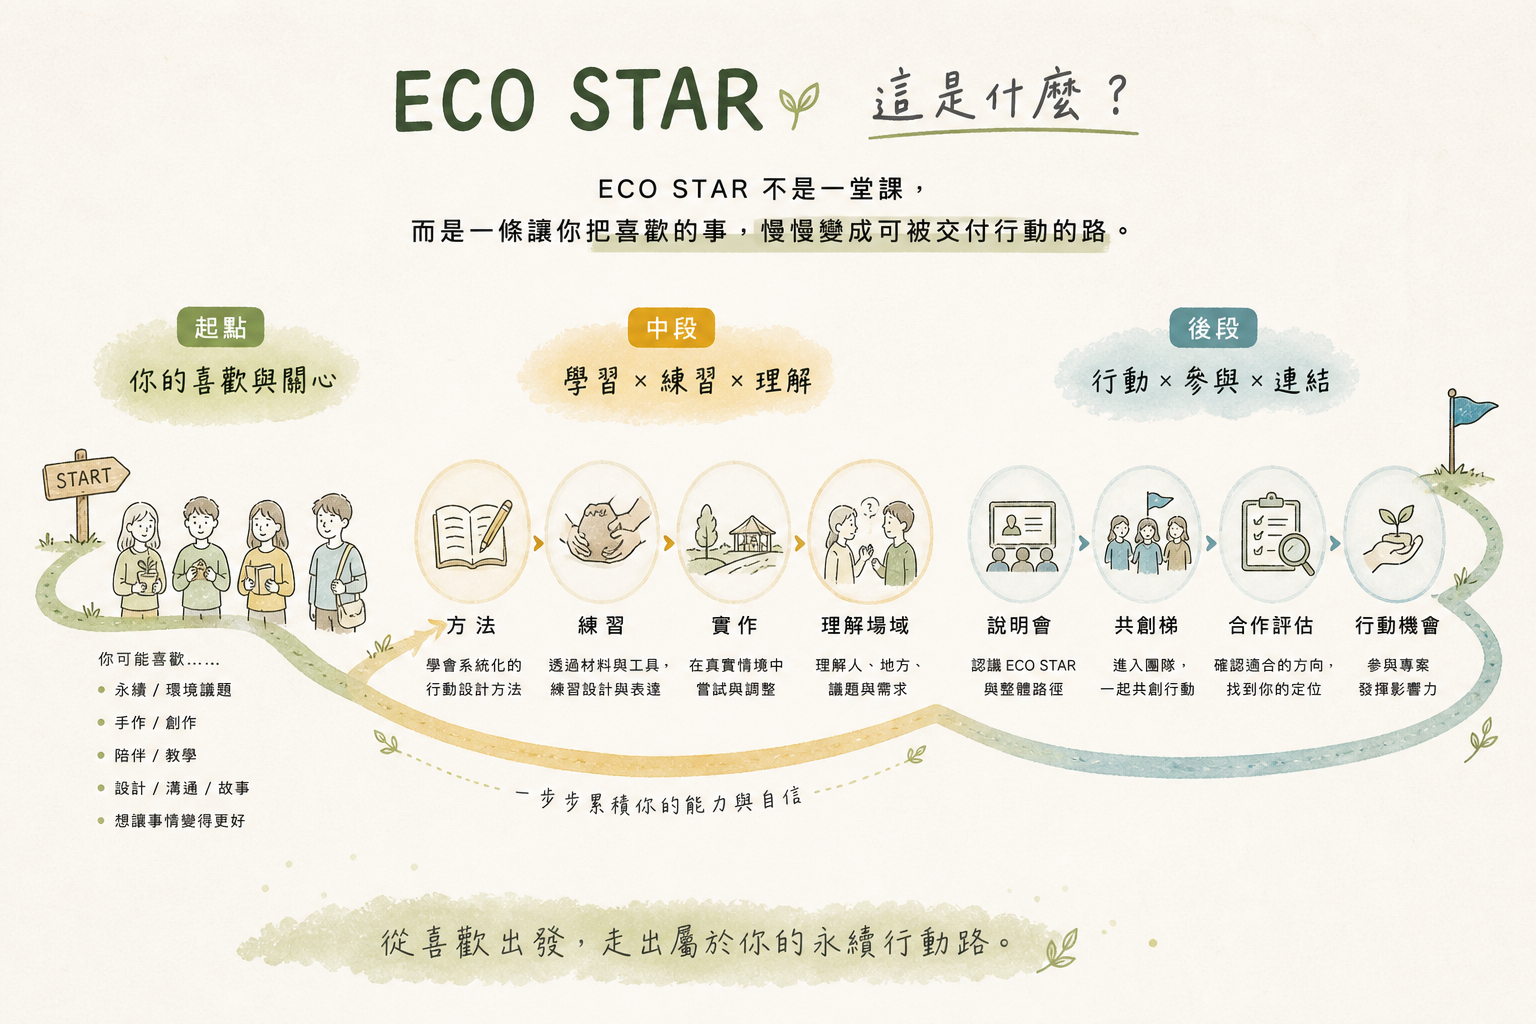
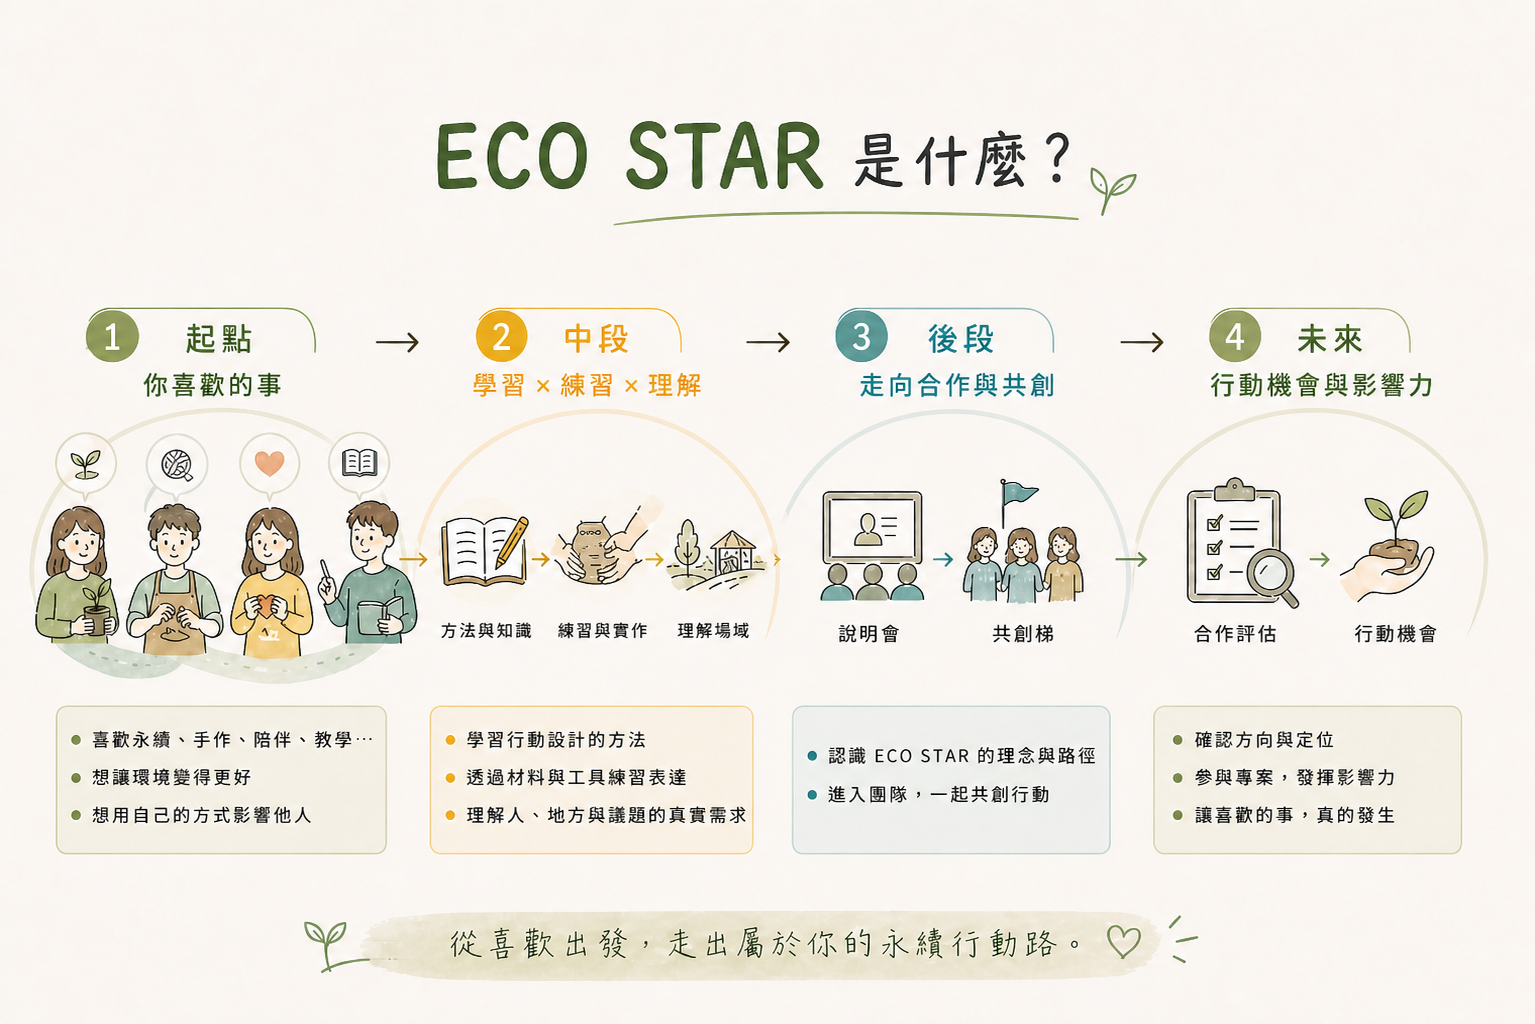
ECO STAR 招生頁 v3.6 what-is refine
What is ECO STAR 區塊更新：
- 標題改「ECO STAR 是什麼？」（kicker 不變）
- lead 改「這不是一堂普通的課程，而是一條從喜歡開始，慢慢走向真實行動的路。」（3 行斷行）
- 加入 4 階段流程圖（assets/eco-star-what-is.png 1535×1024）
  圖內含：起點 → 中段 → 後段 → 未來 4 階段視覺化路徑
- 圖上下不再加長段說明（保持簡潔）

diff --git a/eco-star-designer.html b/eco-star-designer.html
@@ -717,11 +717,37 @@
   <section aria-labelledby="what-title">
     <div class="container">
       <div class="section-kicker-wrap"><span class="section-kicker">What is ECO STAR</span></div>
-      <h2 id="what-title" class="section-title">這不是一堂普通課程</h2>
-      <div class="section-body">
-        <p>它不是一堂單純的課。</p>
-        <p class="accent">而是一條從「喜歡」出發，<br>慢慢走到能帶一場行動的路。</p>
-      </div>
+      <h2 id="what-title" class="section-title">ECO STAR 是什麼？</h2>
+      <p class="what-lead">
+        這不是一堂普通的課程，<br>
+        而是一條從喜歡開始，<br>
+        慢慢走向真實行動的路。
+      </p>
+      <figure class="what-flow">
+        <img src="assets/eco-star-what-is.png" alt="ECO STAR 四階段流程：起點（你喜歡的事）→ 中段（學習×練習×理解）→ 後段（走向合作與共創）→ 未來（行動機會與影響力）" loading="lazy">
+      </figure>
+      <style>
+        .what-lead{
+          max-width:560px;margin:0 auto 32px;
+          text-align:center;
+          font-family:'Noto Serif TC',serif;
+          font-size:17px;line-height:2;color:var(--brown-deep);letter-spacing:.5px;
+        }
+        .what-flow{
+          max-width:1100px;margin:0 auto;
+          border-radius:14px;overflow:hidden;
+          background:var(--card);
+          box-shadow:0 8px 22px -16px rgba(126,90,53,.18);
+        }
+        .what-flow img{
+          display:block;width:100%;height:auto;
+          object-fit:contain;
+        }
+        @media(max-width:720px){
+          .what-lead{font-size:15.5px}
+          .what-flow{border-radius:10px}
+        }
+      </style>
     </div>
   </section>
 
